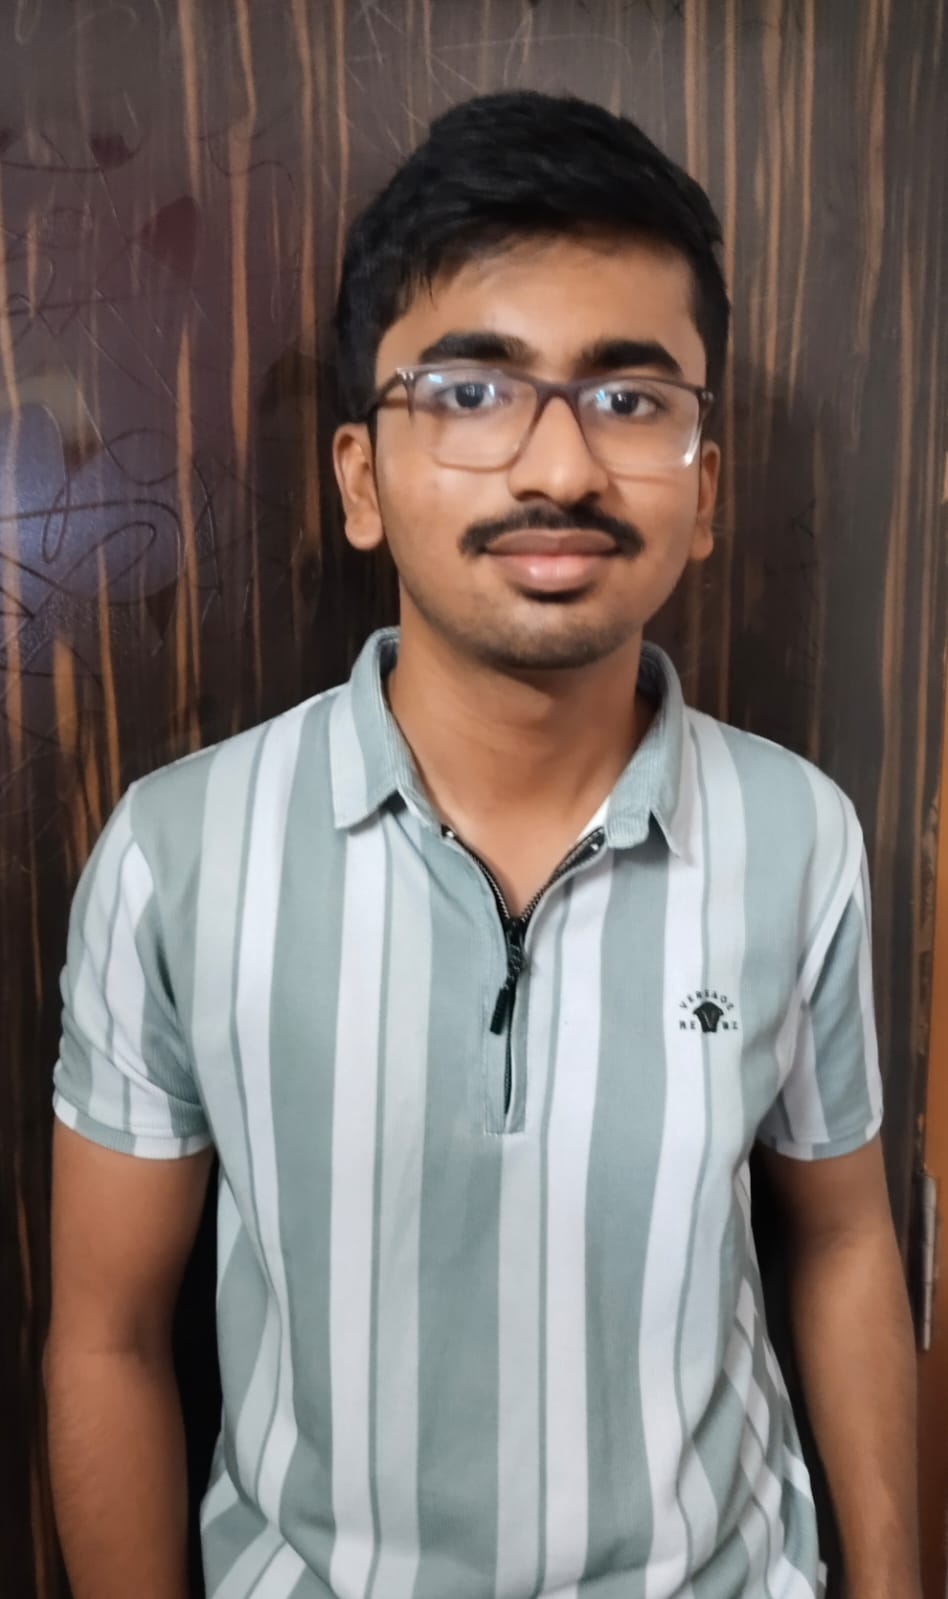
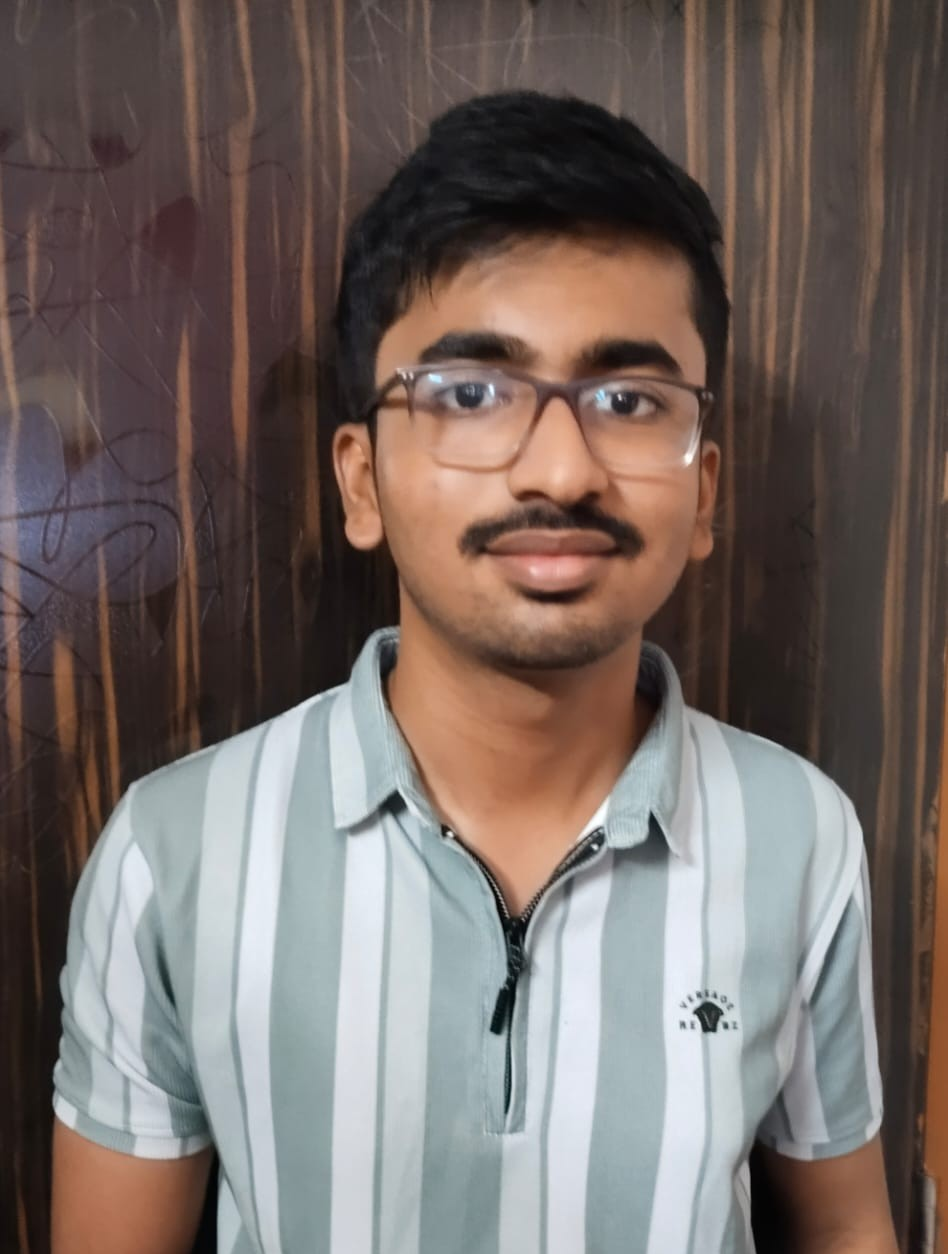
updated images of office bearers, team heads and subheads

diff --git a/data/index.js b/data/index.js
@@ -1,7 +1,7 @@
 //Member Images
 import AshwinKumar from "@/assets/tms/Ashwin_Kumar_S.jpg";
 import NithyasriR from "@/assets/tms/Nithyasri_R.jpg";
-import Pranesh from "@/assets/tms/Pranesh Kumar_S_P.jpg";
+import Pranesh from "@/assets/tms/Pranesh_Kumar_S_P.jpg";
 import Mathavaroopan from "@/assets/tms/Mathavaroopan_Sivakumar.jpg";
 import Lohit from "@/assets/tms/Lohit_Vignesh_S.jpg";
 
@@ -13,12 +13,15 @@ import Asmita_Padmanabhan from "@/assets/tms/Asmita_Padmanabhan.jpg";
 import Adithiyaa_T from "@/assets/tms/Adithiyaa_T.jpg";
 import Kavinkishore_I from "@/assets/tms/Kavinkishore_I.jpg";
 import Bagavati_Narayanan from "@/assets/tms/Bagavati_Narayanan.jpg";
-import Shrinarayan_N from "@/assets/tms/Shrinarayan_N.jpg";
+import Shrinarayan_N from "@/assets/tms/Shrinarayan_N.jpeg";
 import Meghana_Kumar from "@/assets/tms/Meghana_Kumar.jpg";
 import Pranav_Krishna_P from "@/assets/tms/Pranav_Krishna_P.jpg";
 import Rijja_H from "@/assets/tms/Rijja_H.jpg";
 import Hrithika_S from "@/assets/tms/Hrithika_S.jpg";
 import Yashwanth_B from "@/assets/tms/Yashwanth_B.jpg";
+import Irfan from '@/assets/tms/Irfan_Akthar_A.jpg'
+import Jayanth from '@/assets/tms/Jayanth_Natarajan.jpg'
+import AkshayaLakshmi from '@/assets/tms/Akshayalakshmi_S.jpg'
 
 
 export const TeamMembers = [
@@ -28,7 +31,7 @@ export const TeamMembers = [
       {
         name: "Ashwin Kumar S",
         role: "President",
-        bio: "Hey! I’m Ashwin Kumar S — I love building modern full-stack applications and crafting smart software solutions. You’ll usually find me deep into code or tackling a DSA problem for fun 😉.",
+        bio: "Hey! I’m Ashwin Kumar S — I love building modern full-stack applications and crafting smart software solutions. You'll usually find me deep into code or tackling a DSA problem for fun 😉.",
         year: "IV",
         image: AshwinKumar,
         socials: {
@@ -83,7 +86,7 @@ export const TeamMembers = [
         role: "AI/ML Sub-head",
         bio: "Well... I am not really a coding coding person😁, I started learning AIML from 2nd sem and thought anything could not be worse than this becz of the mathematical stuffs in those. But when I started implementing real world projects with chatgpt as my god it was easy 🤠. AIML is a domain which is v imp for hackathons and projects but its difficult and vast untill u find the correct road map for it. Together lets learn as well as implement real world projects😇. So I am here to just kick start ur AIML journey and there u go😊✨",
         year: "III",
-        // image: PiriyadharshiniA,
+        image: Jayanth,
         socials: {
           github: null,
           linkedin: null,
@@ -107,7 +110,7 @@ export const TeamMembers = [
         role: "DSA/CP Sub-Head",
         bio: "Heyooo I'm super fun to hang out with, very friendly nice, enthusiastic, full of energy, zuper ready to learn and one niceeeee personnnnn lessgoooooo!!!!! (Please frame this up nicely for me thank youuuu)(Just kidding, lemme know if you'd like a serious write up! 😃)",
         year: "III",
-        // image: Dhanush,
+        image: AkshayaLakshmi,
         socials: {
           github: null,
           linkedin: null,
@@ -131,10 +134,10 @@ export const TeamMembers = [
         role: "Web Development Sub Head",
         bio: "known for his coding acumen and his impecable(albeit rarely used) debate skills, this emo looking guy surprises you with his charm and spreads joy wherever he goes",
         year: "III",
-        // image: Lohit,
+        image: Irfan,
         socials: {
-          github: "dotzero27",
-          linkedin: "lohitv",
+          github: null,
+          linkedin: null,
           instagram: null,
         },
       },
@@ -145,9 +148,9 @@ export const TeamMembers = [
         year: "III",
         image: KathirvelanJ,
         socials: {
-          github: "https://github.com/Ashwin0006",
-          linkedin: "https://www.linkedin.com/in/ashwin-kumar-18872327a/",
-          instagram: null,
+          github: null,
+          linkedin: "kathirvelanj",
+          instagram: "kathirvelan213",
         },
       },
     ],
@@ -174,20 +177,8 @@ export const TeamMembers = [
         year: "III",
         image: Bagavati_Narayanan,
         socials: {
-          github: null,
-          linkedin: null,
-          instagram: null,
-        },
-      },
-      {
-        name: "Kavin Kishore I ",
-        role: "Core Committee member",
-        bio: "I am a guy driven by Passion! Loves writing code, building web pages. Aiming to collaborate and network with seniors through the Procode community. Loves playing chess, speed solving Rubik's cube, public speaking(lil bit 😅).",
-        year: "II",
-        image: Kavinkishore_I,
-        socials: {
-          github: null,
-          linkedin: null,
+          github: "baggie11",
+          linkedin: "bagavati-narayanan-98484b292",
           instagram: null,
         },
       },
@@ -237,11 +228,11 @@ export const TeamMembers = [
         image: Rijja_H,
         socials: {
           github: null,
-          linkedin: null,
+          linkedin: "rijja-h",
           instagram: null,
         },
       },
-
+      
       {
         name: "Hrithika S ",
         role: "Core Committee member",
@@ -254,23 +245,23 @@ export const TeamMembers = [
           instagram: null,
         },
       },
-    ],
-  },
-  {
-    title: "Design, Marketing and Social Media Heads",
-    members: [
       {
-        name: "Asmita Padmanabhan",
-        role: "Marketing Lead",
-        bio: "Meet Asmita, who coaxed them all to give write-ups about themselves (she may or may not have edited them). To her, ProCode is a space to network with peers from the department, trauma-bond, share warnings about courses, exchange goss and discuss project ideas. She defends python with her life and claims prompt-engineering to be her area of expertise when all she does is chat with and beg ChatGPT (her one true love). She is enthusiastic about all aspects of Public Relations and Marketing - strategizing, doomscrolling reels (in the name of research ofc), content creation, cold calling, posting, stalking, analyzing, and handling chaos. She's a huge foodie who refuses to get out of her house. Her friends definer her by her love for the Indian Constitution (her fav book), Dosas and her bed. She has no complains there.",
-        year: "III",
-        image: Asmita_Padmanabhan,
+        name: "Kavin Kishore I ",
+        role: "Core Committee member",
+        bio: "I am a guy driven by Passion! Loves writing code, building web pages. Aiming to collaborate and network with seniors through the Procode community. Loves playing chess, speed solving Rubik's cube, public speaking(lil bit 😅).",
+        year: "II",
+        image: Kavinkishore_I,
         socials: {
           github: null,
           linkedin: null,
           instagram: null,
         },
       },
+    ],
+  },
+  {
+    title: "Design, Marketing and Social Media Heads",
+    members: [
       {
         name: "Sai Deshna Budideti",
         role: "Design Head",
@@ -278,6 +269,18 @@ export const TeamMembers = [
         // need bio 
         year: "IV",
         image: Sai_Deshna,
+        socials: {
+          github: null,
+          linkedin: null,
+          instagram: null,
+        },
+      },
+      {
+        name: "Asmita Padmanabhan",
+        role: "Marketing Lead",
+        bio: "Meet Asmita, who coaxed them all to give write-ups about themselves (she may or may not have edited them). To her, ProCode is a space to network with peers from the department, trauma-bond, share warnings about courses, exchange goss and discuss project ideas. She defends python with her life and claims prompt-engineering to be her area of expertise when all she does is chat with and beg ChatGPT (her one true love). She is enthusiastic about all aspects of Public Relations and Marketing - strategizing, doomscrolling reels (in the name of research ofc), content creation, cold calling, posting, stalking, analyzing, and handling chaos. She's a huge foodie who refuses to get out of her house. Her friends definer her by her love for the Indian Constitution (her fav book), Dosas and her bed. She has no complains there.",
+        year: "III",
+        image: Asmita_Padmanabhan,
         socials: {
           github: null,
           linkedin: null,
